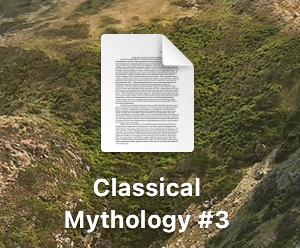
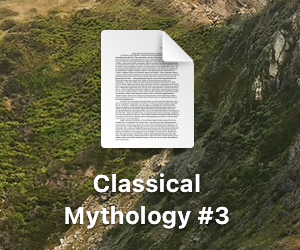
added new files

diff --git a/Papers-School/papers.html b/Papers-School/papers.html
@@ -161,7 +161,7 @@
                 img6.src = '../assets/images/Papers-SteelTown4.4.png';
                 img7.src = '../assets/images/Papers-ClassMyth1.5.1.png';
                 img8.src = '../assets/images/Papers-ClassMyth2.5.1.png';
-                img9.src = '../assets/images/Papers-ClassMyth3.4.png';
+                img9.src = '../assets/images/Papers-ClassMyth3.4.1.png';
             })
 
             console.log(button1);
